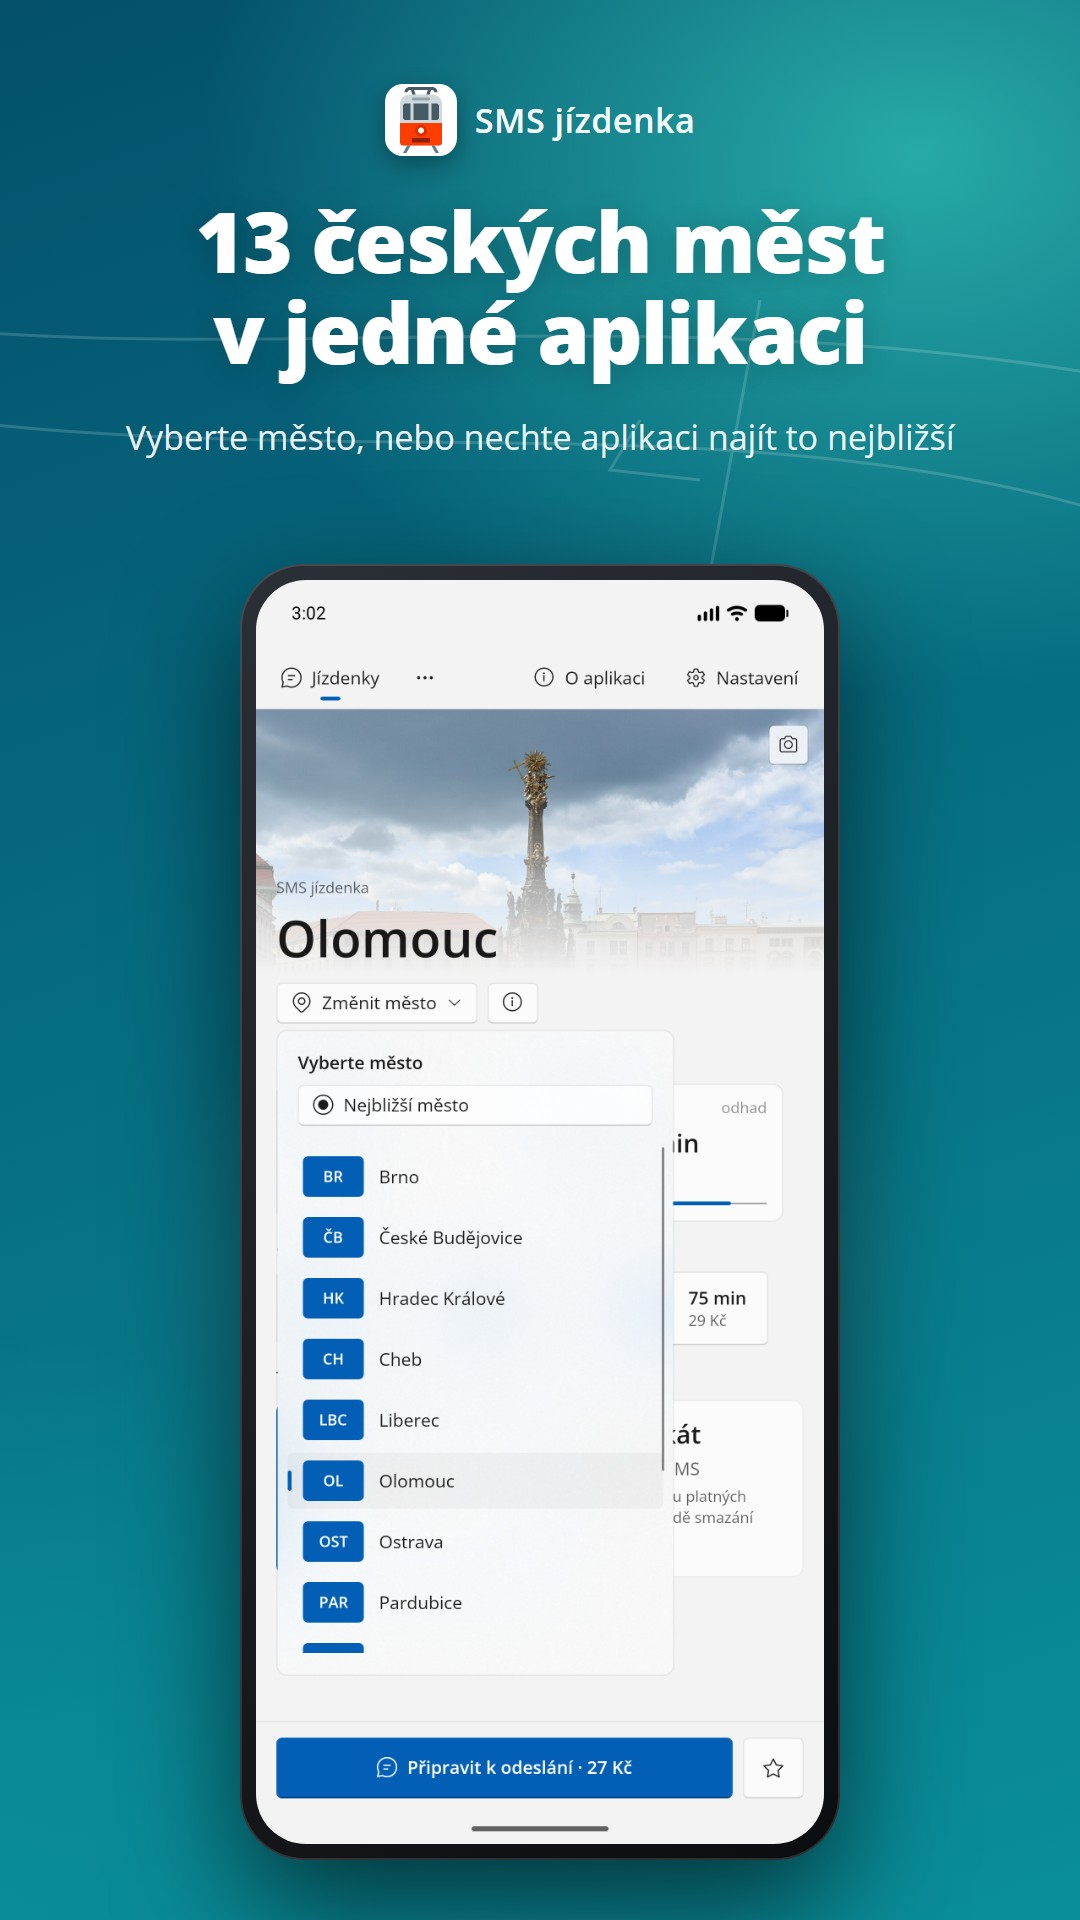
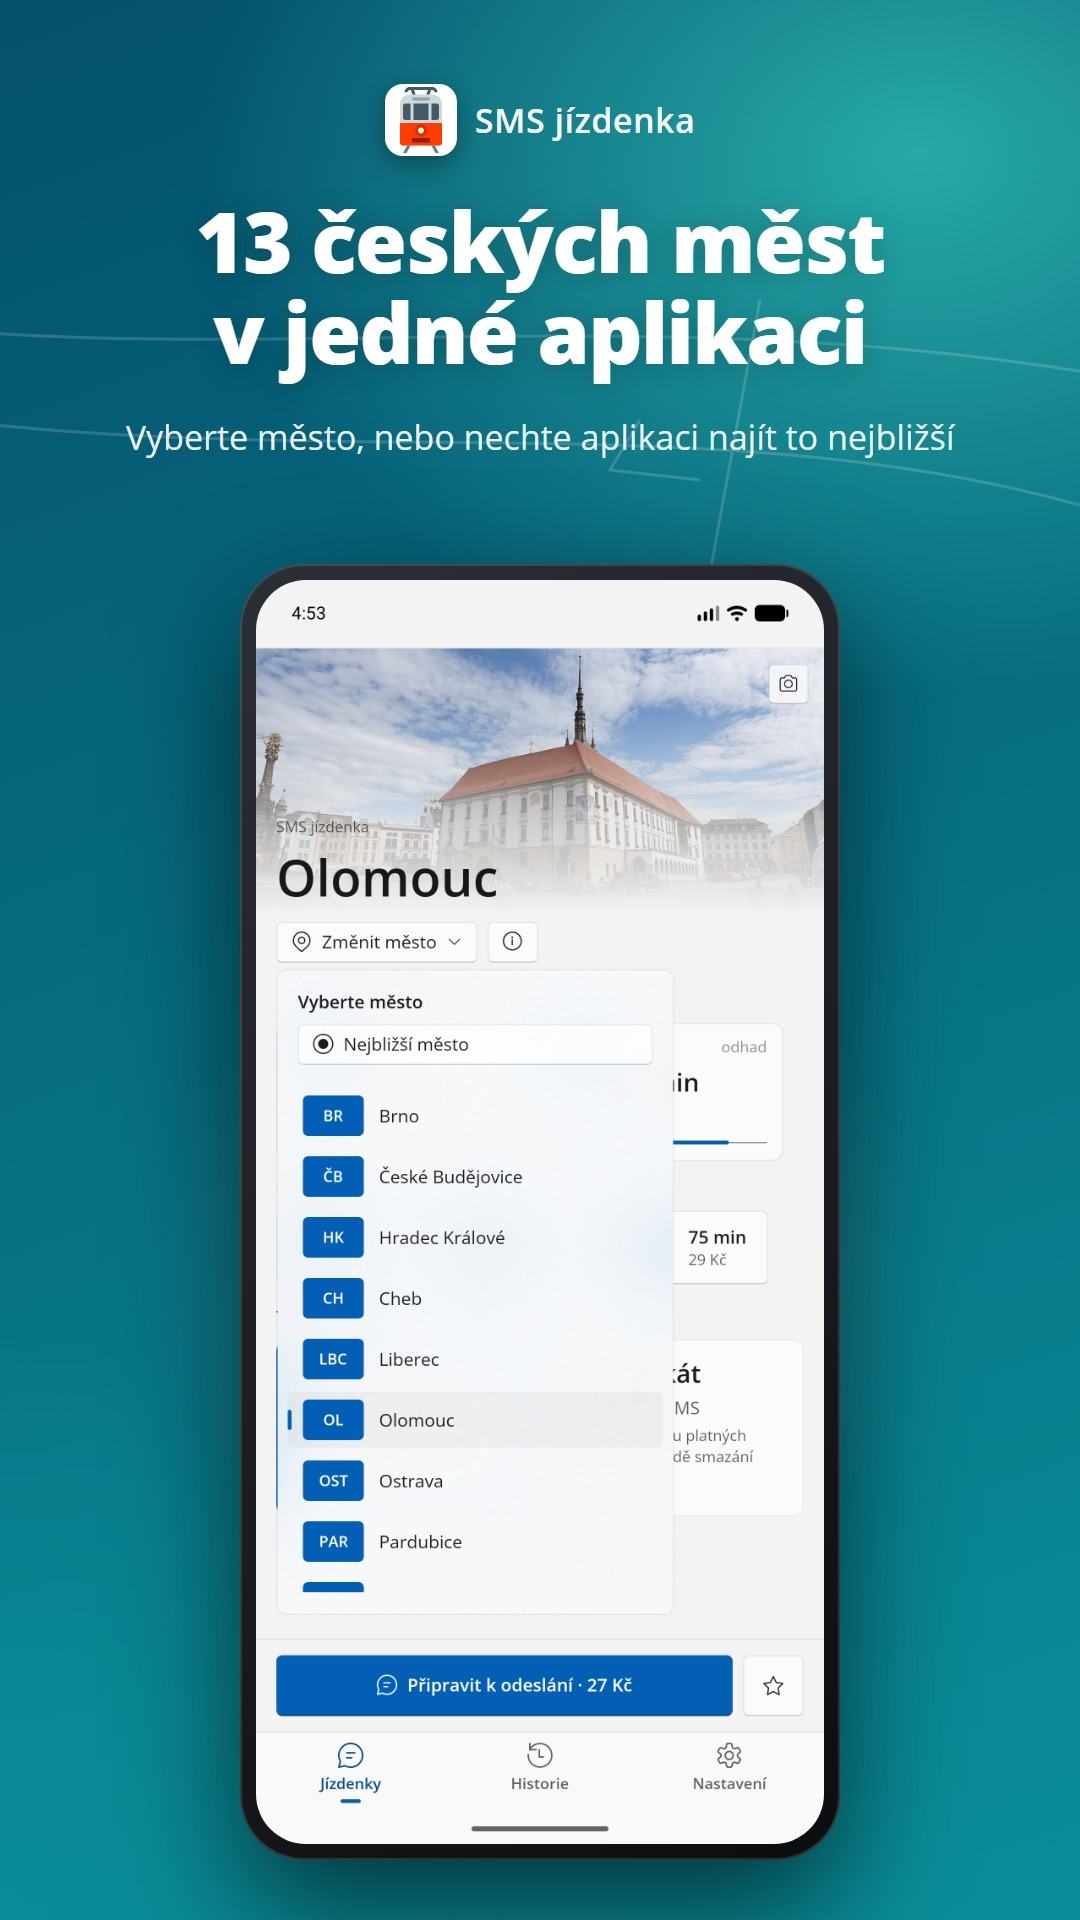
docs: Retake store and README screenshots with the tab bar
Adds App Store iPhone and 13" iPad sets, keeps raw screens as JPEG.

Claude-Session: https://claude.ai/code/session_01TXMNtzvGZt8RUMr3KJJ3yU

Changed region(s): [[0.2139, 0.3125, 0.7639, 0.8125], [0.2444, 0.8125, 0.7333, 0.9375], [0.6111, 0.5938, 0.7028, 0.7812]]

diff --git a/docs/store/ipad.py b/docs/store/ipad.py
@@ -1,0 +1,106 @@
+"""Composes store screenshots: headline + phone mockup on a branded background, rendered with headless Edge.
+
+iPad variant of make.py: tablet mockup over raw-ipad/<lang>-<screen>.jpg, renders into out-ipad/.
+"""
+import os, pathlib, subprocess, sys
+
+CW, CH, SCALE = 1032, 1376, 2  # renders 2064x2752, the App Store 13" iPad size
+
+ROOT = pathlib.Path(__file__).parent
+RAW = ROOT / "raw-ipad"
+OUT = ROOT / "out-ipad"  # renders land here; copy them to ipad/
+OUT.mkdir(exist_ok=True)
+ICON_DIR = ROOT.parents[1] / "src" / "SmsTicket" / "Assets" / "Icons"
+EDGE = r"C:\Program Files (x86)\Microsoft\Edge\Application\msedge.exe"
+
+SLIDES = [
+    # key, theme, en (headline, sub), cs (headline, sub)
+    ("main", "blue",
+     ("SMS ticket\nin seconds", "Favorites with one tap and a live countdown for every active ticket"),
+     ("SMS jízdenka\nza pár vteřin", "Oblíbené na jedno klepnutí a odpočet pro každou platnou jízdenku")),
+    ("picker", "teal",
+     ("13 Czech cities,\none app", "Pick your city or let the app find the nearest one"),
+     ("13 českých měst\nv jedné aplikaci", "Vyberte město, nebo nechte aplikaci najít to nejbližší")),
+    ("history", "violet",
+     ("Every ticket\nat a glance", "Purchase history with monthly totals"),
+     ("Všechny jízdenky\npod kontrolou", "Historie nákupů s měsíčními součty")),
+    ("dark", "night",
+     ("Everything about\nyour city's transit", "Operator, SMS ticket rules and journey planner. In a beautiful dark mode."),
+     ("Vše o MHD\nve vašem městě", "Dopravce, pravidla SMS jízdenek i vyhledávač spojení. I v tmavém režimu.")),
+    ("settings", "sunset",
+     ("Your app,\nyour way", "Light or dark theme, Czech or English"),
+     ("Aplikace\npodle vás", "Světlý i tmavý motiv, čeština i angličtina")),
+]
+
+THEMES = {
+    "blue":   ("#0A3D91", "#0472D8", "#3FA2FF"),
+    "teal":   ("#04506B", "#0A8F9A", "#38D0C0"),
+    "violet": ("#2B1B78", "#4F3BD1", "#8E7BFF"),
+    "night":  ("#070B14", "#13203A", "#2C4C86"),
+    "sunset": ("#7A1E4B", "#D8455C", "#FF9E6B"),
+}
+
+TEMPLATE = """<!DOCTYPE html><html><head><meta charset="utf-8"><style>
+@font-face {{ font-family: OS; src: url('file:///C:/Windows/Fonts/OpenSans-Regular.ttf'); font-weight: 400; }}
+@font-face {{ font-family: OS; src: url('file:///C:/Windows/Fonts/OpenSans-SemiBold.ttf'); font-weight: 600; }}
+@font-face {{ font-family: OS; src: url('file:///C:/Windows/Fonts/OpenSans-ExtraBold.ttf'); font-weight: 800; }}
+* {{ margin: 0; box-sizing: border-box; }}
+html, body {{ width: {cw}px; height: {ch}px; overflow: hidden; }}
+body {{ font-family: OS, 'Segoe UI', sans-serif; color: #fff; position: relative;
+  background: radial-gradient(1200px 900px at 85% 8%, {c3}AA 0%, transparent 60%),
+              radial-gradient(900px 900px at 0% 100%, {c2}CC 0%, transparent 65%),
+              linear-gradient(160deg, {c1} 0%, {c2} 100%); }}
+.wires {{ position: absolute; inset: 0; opacity: .16; }}
+.brand {{ position: absolute; top: 56px; left: 0; right: 0; display: flex; justify-content: center; align-items: center; gap: 18px; }}
+.icon {{ width: 72px; height: 72px; border-radius: 18px; overflow: hidden; position: relative; box-shadow: 0 8px 24px #0005; }}
+.icon img {{ position: absolute; inset: 0; width: 100%; height: 100%; }}
+.brand span {{ font-weight: 600; font-size: 34px; letter-spacing: .5px; opacity: .95; }}
+h1 {{ position: absolute; top: 150px; left: 70px; right: 70px; text-align: center; font-weight: 800;
+  font-size: 64px; line-height: 1.08; letter-spacing: -1.5px; white-space: pre-line; text-shadow: 0 4px 30px #0003; }}
+p {{ position: absolute; top: {sub_top}px; left: 110px; right: 110px; text-align: center; font-size: 34px; line-height: 1.38; opacity: .9; }}
+.phone {{ position: absolute; left: 50%; bottom: 36px; transform: translateX(-50%); width: {pw}px; height: {ph}px;
+  border-radius: 44px; padding: 16px; background: linear-gradient(145deg, #2b2f36, #0c0d10);
+  box-shadow: 0 50px 120px #0009, 0 0 0 2px #ffffff22 inset; }}
+.phone img {{ width: 100%; height: 100%; border-radius: 30px; display: block; object-fit: cover; object-position: top; }}
+.glow {{ position: absolute; left: 50%; bottom: 200px; width: 900px; height: 900px; transform: translateX(-50%);
+  background: radial-gradient(circle, #ffffff30 0%, transparent 60%); }}
+</style></head><body>
+<svg class="wires" viewBox="0 0 {cw} {ch}" preserveAspectRatio="none">
+  <g stroke="#fff" stroke-width="3" fill="none">
+    <path d="M-50 330 C 300 360, 700 300, 1130 380"/>
+    <path d="M-50 420 C 360 470, 760 400, 1130 520"/>
+    <path d="M760 300 L 650 900"/><path d="M640 420 L 610 470 L 700 480"/>
+  </g>
+</svg>
+<div class="glow"></div>
+<div class="brand"><div class="icon"><img src="{icon_bg}"><img src="{icon_fg}"></div><span>{app}</span></div>
+<h1>{headline}</h1>
+<p>{sub}</p>
+<div class="phone"><img src="{shot}"></div>
+</body></html>"""
+
+
+def render(lang, idx, key, theme, headline, sub):
+    c1, c2, c3 = THEMES[theme]
+    shot = (RAW / f"{lang}-{key}.jpg").as_uri()
+    pw = 680
+    ph = int((pw - 32) * 2752 / 2064) + 32
+    html = TEMPLATE.format(
+        c1=c1, c2=c2, c3=c3, pw=pw, ph=ph, cw=CW, ch=CH,
+        sub_top=150 + 2 * 70 + 24,
+        icon_bg=(ICON_DIR / "icon.svg").as_uri(), icon_fg=(ICON_DIR / "icon_foreground.svg").as_uri(),
+        app="SMS jízdenka" if lang == "cs" else "SMS Ticket",
+        headline=headline, sub=sub, shot=shot)
+    page = OUT / f"{lang}-{idx}-{key}.html"
+    page.write_text(html, encoding="utf-8")
+    png = OUT / f"{lang}-{idx}-{key}.png"
+    subprocess.run([EDGE, "--headless=new", "--disable-gpu", "--hide-scrollbars", "--allow-file-access-from-files",
+                    f"--screenshot={png}", f"--window-size={CW},{CH}", f"--force-device-scale-factor={SCALE}",
+                    "--virtual-time-budget=3000", page.as_uri()], check=True, capture_output=True)
+    print(png)
+
+
+for lang in sys.argv[1:] or ["en", "cs"]:
+    for i, (key, theme, en, cs) in enumerate(SLIDES, 1):
+        h, s = en if lang == "en" else cs
+        render(lang, i, key, theme, h, s)

diff --git a/docs/store/make.py b/docs/store/make.py
@@ -1,9 +1,16 @@
-"""Composes Play Store screenshots: headline + phone mockup on a branded background, rendered with headless Edge."""
-import pathlib, subprocess, sys
+"""Composes store screenshots: headline + phone mockup on a branded background, rendered with headless Edge.
+
+IOS=1 renders the App Store iPhone size (1290x2796) into out-ios/ instead of Play's 1080x1920.
+"""
+import os, pathlib, subprocess, sys
+
+IOS = os.environ.get("IOS") == "1"
+CW, CH = (1080, 2341) if IOS else (1080, 1920)
+SCALE = 1290 / 1080 if IOS else 1
 
 ROOT = pathlib.Path(__file__).parent
 RAW = ROOT / "raw"
-OUT = ROOT / "out"  # renders land here; copy the PNGs to android/<lang>/
+OUT = ROOT / ("out-ios" if IOS else "out")  # renders land here; copy them to android/ or ios/
 OUT.mkdir(exist_ok=True)
 ICON_DIR = ROOT.parents[1] / "src" / "SmsTicket" / "Assets" / "Icons"
 EDGE = r"C:\Program Files (x86)\Microsoft\Edge\Application\msedge.exe"
@@ -40,7 +47,7 @@ TEMPLATE = """<!DOCTYPE html><html><head><meta charset="utf-8"><style>
 @font-face {{ font-family: OS; src: url('file:///C:/Windows/Fonts/OpenSans-SemiBold.ttf'); font-weight: 600; }}
 @font-face {{ font-family: OS; src: url('file:///C:/Windows/Fonts/OpenSans-ExtraBold.ttf'); font-weight: 800; }}
 * {{ margin: 0; box-sizing: border-box; }}
-html, body {{ width: 1080px; height: 1920px; overflow: hidden; }}
+html, body {{ width: {cw}px; height: {ch}px; overflow: hidden; }}
 body {{ font-family: OS, 'Segoe UI', sans-serif; color: #fff; position: relative;
   background: radial-gradient(1200px 900px at 85% 8%, {c3}AA 0%, transparent 60%),
               radial-gradient(900px 900px at 0% 100%, {c2}CC 0%, transparent 65%),
@@ -60,7 +67,7 @@ p {{ position: absolute; top: {sub_top}px; left: 110px; right: 110px; text-align
 .glow {{ position: absolute; left: 50%; bottom: 200px; width: 900px; height: 900px; transform: translateX(-50%);
   background: radial-gradient(circle, #ffffff30 0%, transparent 60%); }}
 </style></head><body>
-<svg class="wires" viewBox="0 0 1080 1920" preserveAspectRatio="none">
+<svg class="wires" viewBox="0 0 1080 {ch}" preserveAspectRatio="none">
   <g stroke="#fff" stroke-width="3" fill="none">
     <path d="M-50 330 C 300 360, 700 300, 1130 380"/>
     <path d="M-50 420 C 360 470, 760 400, 1130 520"/>
@@ -77,12 +84,12 @@ p {{ position: absolute; top: {sub_top}px; left: 110px; right: 110px; text-align
 
 def render(lang, idx, key, theme, headline, sub):
     c1, c2, c3 = THEMES[theme]
-    shot = (RAW / f"{lang}-{key}.png").as_uri()
+    shot = (RAW / f"{lang}-{key}.jpg").as_uri()
     # Phone shows the full 1344x2992 screen when it fits under the text, otherwise it bleeds off the bottom
-    pw = 600
+    pw = 780 if IOS else 600
     ph = int((pw - 32) * 2992 / 1344) + 32
     html = TEMPLATE.format(
-        c1=c1, c2=c2, c3=c3, pw=pw, ph=ph,
+        c1=c1, c2=c2, c3=c3, pw=pw, ph=ph, cw=CW, ch=CH,
         sub_top=196 + 2 * 92 + 34,
         icon_bg=(ICON_DIR / "icon.svg").as_uri(), icon_fg=(ICON_DIR / "icon_foreground.svg").as_uri(),
         app="SMS jízdenka" if lang == "cs" else "SMS Ticket",
@@ -91,7 +98,7 @@ def render(lang, idx, key, theme, headline, sub):
     page.write_text(html, encoding="utf-8")
     png = OUT / f"{lang}-{idx}-{key}.png"
     subprocess.run([EDGE, "--headless=new", "--disable-gpu", "--hide-scrollbars", "--allow-file-access-from-files",
-                    f"--screenshot={png}", "--window-size=1080,1920", "--force-device-scale-factor=1",
+                    f"--screenshot={png}", f"--window-size={CW},{CH}", f"--force-device-scale-factor={SCALE}",
                     "--virtual-time-budget=3000", page.as_uri()], check=True, capture_output=True)
     print(png)
 

diff --git a/docs/store/feature.py b/docs/store/feature.py
@@ -3,6 +3,7 @@ import pathlib, subprocess
 
 ROOT = pathlib.Path(__file__).parent
 OUT = ROOT / "out"  # renders land here; copy the PNGs to android/<lang>/
+OUT.mkdir(exist_ok=True)
 ICON_DIR = ROOT.parents[1] / "src" / "SmsTicket" / "Assets" / "Icons"
 EDGE = r"C:\Program Files (x86)\Microsoft\Edge\Application\msedge.exe"
 
@@ -38,7 +39,7 @@ p {{ font-size: 30px; line-height: 1.35; opacity: .92; white-space: pre-line; }}
 for lang, (name, tag) in TEXT.items():
     page = OUT / f"feature-{lang}.html"
     page.write_text(HTML.format(bg=(ICON_DIR / "icon.svg").as_uri(), fg=(ICON_DIR / "icon_foreground.svg").as_uri(),
-                                name=name, tag=tag, shot=(ROOT / "raw" / f"{lang}-main.png").as_uri()), encoding="utf-8")
+                                name=name, tag=tag, shot=(ROOT / "raw" / f"{lang}-main.jpg").as_uri()), encoding="utf-8")
     png = OUT / f"feature-{lang}.png"
     subprocess.run([EDGE, "--headless=new", "--disable-gpu", "--hide-scrollbars", f"--screenshot={png}",
                     "--window-size=1024,500", "--force-device-scale-factor=1", "--virtual-time-budget=3000", page.as_uri()],

diff --git a/docs/store/README.md b/docs/store/README.md
@@ -1,15 +1,29 @@
 # Store assets
 
-- `android/<lang>/phone-*.jpg`: Google Play phone screenshots (1080×1920).
-- `android/<lang>/feature-graphic.jpg`: Play feature graphic (1024×500).
-- `raw/<lang>-*.png`: the app screens they're made from. They were taken on the `smsticket-phone` emulator (1344×2992), from a Debug build with ads turned off and a seeded purchase history.
+| Folder | Store | Size |
+| --- | --- | --- |
+| `android/<lang>/phone-*.jpg` | Google Play phone screenshots | 1080×1920 |
+| `android/<lang>/feature-graphic.jpg` | Google Play feature graphic | 1024×500 |
+| `ios/<lang>/iphone-*.jpg` | App Store iPhone screenshots (upload resized to 1206×2622, the size the 6.3" slot accepts) | 1290×2796 |
+| `ipad/<lang>/ipad-*.jpg` | App Store 13" iPad screenshots | 2064×2752 |
+
+The app screens they're made from:
+
+- `raw/<lang>-*.jpg`: phone, from the `smsticket-phone` emulator (1344×2992).
+- `raw-ipad/<lang>-*.jpg`: the same emulator switched to `wm size 2064x2752` and `wm density 320`, with System UI demo mode on for a clean status bar.
+
+Both come from a Debug build with ads turned off and a seeded purchase history.
 
 ## Regenerate
-Replace the `raw` screens, then run (Windows, needs Microsoft Edge and Pillow):
+Replace the raw screens, then run (Windows, needs Microsoft Edge and Pillow):
 
 ```
-python docs/store/make.py      # renders out/<lang>-<n>-<screen>.png
-python docs/store/feature.py   # renders out/feature-<lang>.png
+python docs/store/make.py           # Play phone shots     -> out/<lang>-<n>-<screen>.png
+set IOS=1 && python docs/store/make.py  # App Store iPhone -> out-ios/
+python docs/store/ipad.py           # App Store iPad       -> out-ipad/
+python docs/store/feature.py        # Play feature graphic -> out/feature-<lang>.png
 ```
 
-Then copy the renders from `out/` into `android/<lang>/`. Headlines and colors are at the top of `make.py`.
+Then copy the renders into the matching folders above. Headlines and colors are at the top of `make.py`, and `ipad.py` has its own copy.
+
+Upload screenshots one at a time, in order: both consoles sort a multi-file upload by whichever finishes first.
